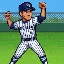
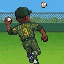
Franchise creator + green-and-gold portrait sheet
Name your own club (city + team name with dice rerolls), pick a club
edge, get a randomly drafted roster; the 7 rivals now generate unique
city+nickname identities from minor-league flavored pools. New user-made
portrait sheet sliced in (one masked catcher, five arms, ten fielders).
Existing saves untouched (nickname falls back to city name).

Claude-Session: https://claude.ai/code/session_013bLcArUegW965DkACQis4U

diff --git a/src/ui/CitySelect.jsx b/src/ui/CitySelect.jsx
@@ -1,36 +1,98 @@
-// ── City selection screen (shown before the club is founded) ──
+// ── The Franchise Creator: name your club, pick your edge, get a random roster ──
 
 import { useState } from "react";
-import { C, CITIES } from "../game/constants.js";
-import { panel, btn, globalCss, MONO, SLAB } from "./styles.js";
+import { C, EDGES, CITY_POOL, NICKNAME_POOL } from "../game/constants.js";
+import { btn, globalCss, MONO, PIXEL, SLAB } from "./styles.js";
+import Panel from "./Panel.jsx";
+import { DiceIcon } from "./Icons.jsx";
+
+const roll = (pool) => pool[(Math.random() * pool.length) | 0];
+
+const inputStyle = {
+  flex: 1, minWidth: 0, background: "#0A1810", color: C.cream, border: `2px solid ${C.greenLine}`,
+  borderRadius: 6, fontFamily: MONO, fontSize: 15, fontWeight: 600, padding: "10px 10px",
+  letterSpacing: 1, boxSizing: "border-box",
+};
+const diceBtn = {
+  width: 46, display: "flex", alignItems: "center", justifyContent: "center",
+  background: "transparent", border: `2px solid ${C.greenLine}`, borderRadius: 6, cursor: "pointer",
+};
 
 export default function CitySelect({ onPick, onRestore }) {
+  const [tCity, setTCity] = useState(() => roll(CITY_POOL));
+  const [nick, setNick] = useState(() => roll(NICKNAME_POOL));
+  const [edge, setEdge] = useState(null);
   const [open, setOpen] = useState(false);
   const [pasted, setPasted] = useState("");
   const [err, setErr] = useState(null);
+
+  const ready = tCity.trim().length > 0 && nick.trim().length > 0 && edge != null;
+  const start = () => {
+    if (!ready) return;
+    const e = EDGES[edge];
+    onPick({ name: tCity.trim(), nickname: nick.trim(), bonus: e.bonus, label: `${e.title}: ${e.label}` });
+  };
+
   return (
-    <div style={{ minHeight: "100dvh", background: C.green, color: C.cream, fontFamily: MONO, padding: "calc(12px + env(safe-area-inset-top)) calc(12px + env(safe-area-inset-right)) calc(12px + env(safe-area-inset-bottom)) calc(12px + env(safe-area-inset-left))", boxSizing: "border-box" }}>
+    <div style={{ minHeight: "100dvh", background: C.green, color: C.cream, fontFamily: MONO, padding: "calc(12px + env(safe-area-inset-top)) calc(12px + env(safe-area-inset-right)) calc(24px + env(safe-area-inset-bottom)) calc(12px + env(safe-area-inset-left))", boxSizing: "border-box" }}>
       <style>{globalCss}</style>
-      <div style={{ maxWidth: 720, margin: "40px auto", textAlign: "center" }}>
-        <h1 style={{ fontFamily: SLAB, fontSize: 30, letterSpacing: 1 }}>
+      <div style={{ maxWidth: 460, margin: "28px auto 0" }}>
+        <h1 style={{ fontFamily: SLAB, fontSize: 30, letterSpacing: 1, textAlign: "center", margin: "0 0 4px" }}>
           PENNANT<span style={{ color: C.amber }}> CHASE</span>
         </h1>
-        <p style={{ color: C.creamDim, fontSize: 13 }}>
-          Found a club in the Bigs. Eight teams, 154 games a season, one Pennant Cup —
-          and the seasons never stop. Your rivals get better every winter. Will you?
-          Pick your city — each comes with a permanent edge.
-        </p>
-        <div style={{ display: "flex", flexWrap: "wrap", gap: 12, justifyContent: "center", marginTop: 20 }}>
-          {CITIES.map((c) => (
-            <button key={c.name} onClick={() => onPick(c)}
-              style={{ ...panel, borderColor: C.amber, padding: 16, width: 210, cursor: "pointer", color: C.cream, fontFamily: MONO, textAlign: "left" }}>
-              <div style={{ fontFamily: SLAB, fontSize: 16, color: C.amber, marginBottom: 6 }}>{c.name}</div>
-              <div style={{ fontSize: 11, color: C.creamDim, lineHeight: 1.5 }}>{c.label}</div>
-            </button>
-          ))}
+        <div style={{ textAlign: "center", fontFamily: PIXEL, fontSize: 9, color: C.creamDim, letterSpacing: 1 }}>
+          FOUND YOUR FRANCHISE
         </div>
 
-        <div style={{ marginTop: 28 }}>
+        <Panel title="YOUR CLUB">
+          <div style={{ fontSize: 9, color: C.creamDim, letterSpacing: 2, marginBottom: 4 }}>CITY</div>
+          <div style={{ display: "flex", gap: 8, marginBottom: 12 }}>
+            <input value={tCity} maxLength={16} onChange={(e) => setTCity(e.target.value)} style={inputStyle} />
+            <button style={diceBtn} aria-label="random city" onClick={() => setTCity(roll(CITY_POOL))}><DiceIcon size={17} /></button>
+          </div>
+          <div style={{ fontSize: 9, color: C.creamDim, letterSpacing: 2, marginBottom: 4 }}>TEAM NAME</div>
+          <div style={{ display: "flex", gap: 8, marginBottom: 12 }}>
+            <input value={nick} maxLength={16} onChange={(e) => setNick(e.target.value)} style={inputStyle} />
+            <button style={diceBtn} aria-label="random team name" onClick={() => setNick(roll(NICKNAME_POOL))}><DiceIcon size={17} /></button>
+          </div>
+          <div style={{ textAlign: "center", fontFamily: PIXEL, fontSize: 11, color: C.amber, letterSpacing: 1, lineHeight: 1.6, minHeight: 20 }}>
+            {(tCity.trim() + " " + nick.trim()).toUpperCase()}
+          </div>
+        </Panel>
+
+        <Panel title="YOUR EDGE">
+          <div style={{ display: "flex", flexWrap: "wrap", gap: 8 }}>
+            {EDGES.map((e, i) => {
+              const on = edge === i;
+              return (
+                <button key={e.bonus} onClick={() => setEdge(i)}
+                  style={{
+                    flex: "1 1 46%", minWidth: 150, textAlign: "left", padding: "9px 10px", cursor: "pointer",
+                    background: on ? "#3A2E10" : "transparent", border: `2px solid ${on ? C.amber : C.greenLine}`,
+                    borderRadius: 6, color: on ? C.amber : C.cream, fontFamily: MONO,
+                  }}>
+                  <div style={{ fontFamily: PIXEL, fontSize: 8, letterSpacing: 1, marginBottom: 4 }}>{e.title}</div>
+                  <div style={{ fontSize: 10, color: C.creamDim }}>{e.label}</div>
+                </button>
+              );
+            })}
+          </div>
+        </Panel>
+
+        <div style={{ fontSize: 10, color: C.creamDim, textAlign: "center", margin: "14px 0 0" }}>
+          Your roster is drafted for you — random names, random talent. Seven rival clubs await.
+        </div>
+
+        <button onClick={start}
+          style={{
+            width: "100%", marginTop: 12, fontFamily: PIXEL, fontSize: 11, padding: "14px 0", letterSpacing: 1,
+            background: ready ? "#3A2E10" : "transparent", border: `3px solid ${ready ? C.amber : C.greenLine}`,
+            borderRadius: 8, color: ready ? C.amber : C.creamDim, cursor: ready ? "pointer" : "default",
+          }}>
+          START FRANCHISE
+        </button>
+
+        <div style={{ marginTop: 22, textAlign: "center" }}>
           <button onClick={() => { setOpen((o) => !o); setErr(null); }}
             style={{ background: "transparent", border: "none", color: C.creamDim, fontFamily: MONO, fontSize: 11, textDecoration: "underline", cursor: "pointer" }}>
             Have a backup code from another device?

diff --git a/src/App.jsx b/src/App.jsx
@@ -156,6 +156,7 @@ export default function App() {
   S.current = { city, money, fans, roster, merch, tv, seasonStats, shopItems, draftClass, form, year, phase, rivals, schedule, rivalDays, gameIndex, standings, playoffs, history, trophies, speed, sound, seenTips };
 
   const cityBonus = (k) => (city?.bonus === k);
+  const tn = (c) => (c?.nickname ?? c?.name ?? ""); // team display name
 
   const pushLog = useCallback((text, kind = "play", side = null, team = null) => {
     setLog((l) => [{ id: idRef.current++, text, kind, side, team }, ...l].slice(0, 40));
@@ -201,11 +202,11 @@ export default function App() {
   // ── Founding ──
   const foundClub = (c) => {
     const r = genRoster(LEAGUE.statBase);
-    const rv = makeRivals();
+    const rv = makeRivals(LEAGUE.statBase, { tCity: c.name, name: c.nickname });
     const sch = makeSchedule();
     setCity(c); setRoster(r); setRivals(rv);
     setSchedule(sch.schedule); setRivalDays(sch.rivalDays);
-    pushLog(`The ${c.name} franchise joins ${LEAGUE.name}. ${c.label}.`, "win");
+    pushLog(`The ${c.name} ${c.nickname} join ${LEAGUE.name}. ${c.label}.`, "win");
     pushLog(`Eight clubs. ${LEAGUE.seasonGames} games. Top four make the playoffs. The Pennant Cup waits.`, "sys");
     showTip("welcome");
   };
@@ -262,9 +263,9 @@ export default function App() {
     gameRef.current = newGame(opp, home, oppIdx);
     ctxRef.current = {
       batters: s.roster.batters, sp: s.roster.sp, rp: s.roster.rp, opp,
-      fence: FENCE, statBase: LEAGUE.statBase, innings: LEAGUE.innings, cityName: s.city.name,
+      fence: FENCE, statBase: LEAGUE.statBase, innings: LEAGUE.innings, cityName: tn(s.city),
     };
-    pushLog(`— ${label} — ${home ? `${opp.name} at ${s.city.name}` : `${s.city.name} at ${opp.name}`}.`, "sys");
+    pushLog(`— ${label} — ${home ? `${opp.name} at ${tn(s.city)}` : `${tn(s.city)} at ${opp.name}`}.`, "sys");
   };
 
   // ── Settle a finished game into money/fans/standings/series ──
@@ -277,7 +278,7 @@ export default function App() {
     for (let i = s.form.length - 1; i >= 0 && s.form[i] === "W"; i--) streak++;
     const res = settleGame(g, {
       fans: s.fans, gateBonus: cityBonus("gate"), floorBonus: cityBonus("floor"),
-      fansBonus: cityBonus("fans"), cityName: s.city.name, playoff: playoffLabel,
+      fansBonus: cityBonus("fans"), cityName: tn(s.city), playoff: playoffLabel,
       formWins: s.form.filter((f) => f === "W").length, streak,
     });
     setMoney((m) => m + res.moneyDelta);
@@ -343,7 +344,7 @@ export default function App() {
       return;
     }
     if (p.wins.us >= need && p.round === "final") {
-      pushLog(`— PENNANT CUP CHAMPIONS — ${s.city.name} take the final ${p.wins.us}-${p.wins.them}. $${fmt(ECON.cupPay)} and the parade lasts three days.`, "win");
+      pushLog(`— PENNANT CUP CHAMPIONS — ${tn(s.city)} take the final ${p.wins.us}-${p.wins.them}. $${fmt(ECON.cupPay)} and the parade lasts three days.`, "win");
       play.fanfare();
       return offseason(0, true);
     }
@@ -362,8 +363,8 @@ export default function App() {
     const ratings = ratingsNow();
     const order = seedOrder(s.standings, ratings);
     const mySeed = order.indexOf(0);
-    const name = (i) => (i === 0 ? s.city.name : s.rivals[i - 1].name);
-    pushLog(`— REGULAR SEASON COMPLETE — ${s.city.name} finish ${s.standings[0].w}-${s.standings[0].l}, ${["1st", "2nd", "3rd"][mySeed] || `${mySeed + 1}th`}.`, mySeed < LEAGUE.playoffTeams ? "win" : "out");
+    const name = (i) => (i === 0 ? tn(s.city) : s.rivals[i - 1].name);
+    pushLog(`— REGULAR SEASON COMPLETE — ${tn(s.city)} finish ${s.standings[0].w}-${s.standings[0].l}, ${["1st", "2nd", "3rd"][mySeed] || `${mySeed + 1}th`}.`, mySeed < LEAGUE.playoffTeams ? "win" : "out");
 
     if (mySeed < LEAGUE.playoffTeams) {
       const oppIdx = order[[3, 2, 1, 0][mySeed]];
@@ -416,7 +417,7 @@ export default function App() {
     const mySeed = order.indexOf(0);
     const off = runOffseason({
       year: s.year, rivals: s.rivals, standings: s.standings, ratings,
-      championIdx, championName: championIdx === 0 ? s.city.name : s.rivals[championIdx - 1].name,
+      championIdx, championName: championIdx === 0 ? tn(s.city) : s.rivals[championIdx - 1].name,
       playerSeed: mySeed, playerCup,
       record: { w: s.standings[0].w, l: s.standings[0].l },
       fans: s.fans, history: s.history, trophies: s.trophies,

diff --git a/src/ui/BallparkTab.jsx b/src/ui/BallparkTab.jsx
@@ -54,12 +54,13 @@ export default function BallparkTab({ g, city, year, phase, playoffs, gameIndex,
 
   // Line score rows: away team always on top. [name, R, H, E, atBat, isUs]
   const hitsOf = (sideKey) => (box ? Object.values(box[sideKey]).reduce((n, l) => n + l.h, 0) : "–");
-  const usRow = g ? [city.name, g.us, hitsOf("us"), box.errUs ?? 0, g.half === (g.home ? "bottom" : "top") && !g.over, true] : [city.name, "–", "–", "–", false, true];
+  const teamName = city.nickname ?? city.name;
+  const usRow = g ? [teamName, g.us, hitsOf("us"), box.errUs ?? 0, g.half === (g.home ? "bottom" : "top") && !g.over, true] : [teamName, "–", "–", "–", false, true];
   const oppRow = g ? [g.opp.name, g.them, hitsOf("them"), box.errThem ?? 0, g.half === (g.home ? "top" : "bottom") && !g.over, false] : ["VISITORS", "–", "–", "–", false, false];
   const teamRows = g && !g.home ? [usRow, oppRow] : [oppRow, usRow];
 
   // Standings, sorted
-  const names = [city.name, ...(rivals || []).map((r) => r.name)];
+  const names = [teamName, ...(rivals || []).map((r) => r.name)];
   const table = standings
     .map((t, i) => ({ i, name: names[i] || "—", w: t.w, l: t.l, pct: t.w + t.l ? t.w / (t.w + t.l) : 0 }))
     .sort((a, b) => b.w - a.w || a.l - b.l);
@@ -144,7 +145,7 @@ export default function BallparkTab({ g, city, year, phase, playoffs, gameIndex,
             <Panel title="GAME STATS" titleRight={g.over ? "FINAL" : undefined}>
               <div style={{ display: "flex", fontSize: 11, marginBottom: 10, letterSpacing: 1 }}>
                 <span style={{ color: C.creamDim }}>{abbrev(g.opp.name)} {g.opp.name}</span>
-                <span style={{ marginLeft: "auto", color: C.amber }}>{city.name} {abbrev(city.name)}</span>
+                <span style={{ marginLeft: "auto", color: C.amber }}>{teamName} {abbrev(teamName)}</span>
               </div>
               <CompareRow label="HITS" a={total("them", "h")} b={total("us", "h")} />
               <CompareRow label="HOME RUNS" a={total("them", "hr")} b={total("us", "hr")} />
@@ -153,7 +154,7 @@ export default function BallparkTab({ g, city, year, phase, playoffs, gameIndex,
               <CompareRow label="WALKS" a={total("them", "bb")} b={total("us", "bb")} />
               <CompareRow label="LEFT ON BASE" a={g.box.lobThem} b={g.box.lobUs} />
             </Panel>
-            <StatTable style={{ marginTop: 10 }} title={`${city.name.toUpperCase()} HITTING`}
+            <StatTable style={{ marginTop: 10 }} title={`${teamName.toUpperCase()} HITTING`}
               cols={["AB", "R", "H", "HR", "RBI", "BB", "K"]} rows={gameRows(roster.batters, "us")} onRow={onOpenCard} />
             <StatTable style={{ marginTop: 10 }} title={`${g.opp.name.toUpperCase()} HITTING`}
               cols={["AB", "R", "H", "HR", "RBI", "BB", "K"]} rows={gameRows(g.opp.batters, "them")} onRow={onOpenCard} />
@@ -192,7 +193,7 @@ export default function BallparkTab({ g, city, year, phase, playoffs, gameIndex,
         {g && !g.over && (
           <Panel title="SCOUT">
             <div style={{ fontSize: 12, lineHeight: 1.7 }}>
-              {g.opp.name}<br />
+              {g.opp.tCity ? `${g.opp.tCity} ` : ""}{g.opp.name}<br />
               Their ace: {g.opp.sp.name} (Stuff {g.opp.sp.stuff}, Control {g.opp.sp.control})<br />
               <span style={{ color: C.creamDim }}>Rivals retool every winter. Keep up.</span>
             </div>

diff --git a/src/game/constants.js b/src/game/constants.js
@@ -38,13 +38,31 @@ export const LAST = [
   "Webb", "Whitaker", "Wilks", "Yamada", "Zamora",
 ];
 
-export const CITIES = [
-  { name: "Sacramento", bonus: "fans", label: "Hungry market: +25% fan growth" },
-  { name: "Nashville", bonus: "merch", label: "Merch city: merchandise pays +30%" },
-  { name: "Portland", bonus: "train", label: "Player development hub: training costs -15%" },
-  { name: "San Antonio", bonus: "gate", label: "Big gates: +25% game payouts" },
-  { name: "Buffalo", bonus: "floor", label: "Loyal diehards: money floor doubled on losses" },
-  { name: "Montreal", bonus: "fans", label: "Baseball-starved: +25% fan growth" },
+// Club edges — pick one at founding (the old per-city bonuses, city-neutral)
+export const EDGES = [
+  { bonus: "fans", title: "HUNGRY MARKET", label: "+25% fan growth" },
+  { bonus: "merch", title: "MERCH TOWN", label: "merchandise pays +30%" },
+  { bonus: "train", title: "DEV ACADEMY", label: "training costs -15%" },
+  { bonus: "gate", title: "BIG GATES", label: "+25% game payouts" },
+  { bonus: "floor", title: "DIEHARDS", label: "loss payouts doubled" },
+];
+
+// Team identity pools: minor-league flavored towns and nicknames
+export const CITY_POOL = [
+  "Toledo", "Fresno", "Duluth", "Butte", "Amarillo", "Pawtucket", "Chattanooga", "Spokane",
+  "Port Vale", "Cedar Falls", "Bison Ridge", "Sable Creek", "Harbor City", "Yucca Flats",
+  "Iron Bend", "Dry Gulch", "Millhaven", "Oak Hollow", "Red Mesa", "Saltwater",
+  "Gravel Point", "Copper Junction", "Twin Forks", "Palmetto", "Frostburg", "El Dorado",
+  "Kingsport", "Blue Ash", "Tarrytown", "Mudflat", "Sunbury", "Cannon Falls",
+  "Whistler's Gap", "Bakersfield", "Owl Creek", "Rock Bottom", "Grover's Mill", "Lantern Hill",
+];
+export const NICKNAME_POOL = [
+  "River Cats", "Mudhens", "Growlers", "Steel", "Bisons", "Copperheads", "Night Owls",
+  "Sandpipers", "Mudcats", "Ironbirds", "Thunderclaps", "Dusters", "Wolf Spiders", "Sod Busters",
+  "Haymakers", "Zephyrs", "Jackalopes", "Stevedores", "Linemen", "Moonshots",
+  "Prairie Dogs", "Green Sox", "Wranglers", "Coal Skinks", "Barnstormers", "Dirigibles",
+  "Leadoffs", "Spitfires", "Turkeys", "Cannoneers", "Swamp Foxes", "Boilermen",
+  "Knuckleballs", "Sluggos", "Rainmakers", "Longhorns", "Icehouse Cats", "Ragtops",
 ];
 
 export const TRAITS = [
@@ -69,9 +87,6 @@ export const LEAGUE = {
   payWin: 60,    // legacy anchor: gear prices key off this
   fansPerWin: 8, // + 2 per HR, streaks multiply it
 };
-
-// The seven clubs you will battle forever
-export const RIVAL_NAMES = ["River Cats", "Mudhens", "Growlers", "Steel", "Bisons", "Copperheads", "Night Owls"];
 
 export const ECON = {
   startMoney: 200,

diff --git a/src/game/season.js b/src/game/season.js
@@ -1,20 +1,27 @@
 // ── Season machinery: rivals, schedule, standings, quick-sim, playoffs, offseason ──
 // Team index convention everywhere: 0 = the player's club, 1..7 = rivals.
 
-import { LEAGUE, RIVAL_NAMES, TRAITS, CREEP, ECON } from "./constants.js";
-import { genRivalTeam, creepRival } from "./generators.js";
+import { LEAGUE, TRAITS, CREEP, ECON } from "./constants.js";
+import { genRivalTeam, creepRival, genTeamIdentity } from "./generators.js";
 import { ovr } from "./gear.js";
 
 // Logistic win probability constants (calibrated against the real engine —
 // on the 0-100 scale one OVR point is worth K=0.325 of log-odds)
 export const QS = { K: 0.325, H: 0.03 };
 
-export const makeRivals = (base = LEAGUE.statBase) => {
+export const makeRivals = (base = LEAGUE.statBase, playerIdentity = null) => {
   const traitIds = [...TRAITS.map((t) => t.id)];
   // 7 rivals, 6 traits: shuffle and let one trait appear twice
   const pool = [...traitIds].sort(() => Math.random() - 0.5);
   pool.push(traitIds[(Math.random() * traitIds.length) | 0]);
-  return RIVAL_NAMES.map((name, i) => genRivalTeam(name, pool[i], base));
+  const usedCities = new Set(playerIdentity ? [playerIdentity.tCity] : []);
+  const usedNames = new Set(playerIdentity ? [playerIdentity.name] : []);
+  return Array.from({ length: 7 }, (_, i) => {
+    const id = genTeamIdentity(usedCities, usedNames);
+    const team = genRivalTeam(id.name, pool[i], base);
+    team.tCity = id.tCity;
+    return team;
+  });
 };
 
 // Per rival: 6 series, 22 games, 11 home / 11 away

diff --git a/src/game/generators.js b/src/game/generators.js
@@ -1,6 +1,6 @@
 // ── Player, roster, rival-team, and draft-class generation ──
 
-import { FIRST, LAST, POSITIONS, TRAITS, BAT_STATS, PIT_STATS, PLAYER_TRAITS, LEAGUE, DRAFT, CREEP } from "./constants.js";
+import { FIRST, LAST, POSITIONS, TRAITS, BAT_STATS, PIT_STATS, PLAYER_TRAITS, LEAGUE, DRAFT, CREEP, CITY_POOL, NICKNAME_POOL } from "./constants.js";
 import { jitter } from "./utils.js";
 
 let uid = 1;
@@ -22,6 +22,17 @@ const rname = () => {
   return FIRST[(Math.random() * FIRST.length) | 0] + " " + LAST[(Math.random() * LAST.length) | 0];
 };
 export const freshName = () => rname();
+
+// Team identities: unique town + nickname combos for a league
+export const genTeamIdentity = (usedCities, usedNames) => {
+  let tCity = CITY_POOL[(Math.random() * CITY_POOL.length) | 0];
+  for (let i = 0; i < 30 && usedCities.has(tCity); i++) tCity = CITY_POOL[(Math.random() * CITY_POOL.length) | 0];
+  let name = NICKNAME_POOL[(Math.random() * NICKNAME_POOL.length) | 0];
+  for (let i = 0; i < 30 && usedNames.has(name); i++) name = NICKNAME_POOL[(Math.random() * NICKNAME_POOL.length) | 0];
+  usedCities.add(tCity);
+  usedNames.add(name);
+  return { tCity, name };
+};
 
 export const pickTrait = (role) => {
   const pool = PLAYER_TRAITS.filter((t) => t.role === role);

diff --git a/src/ui/Scoreboard.jsx b/src/ui/Scoreboard.jsx
@@ -36,7 +36,7 @@ export default function Scoreboard({ city, year, record, money, fans, talent, tr
       {/* Marquee */}
       <div style={{ display: "flex", alignItems: "center", gap: 10, marginBottom: 10 }}>
         <h1 style={{ fontFamily: SLAB, fontSize: "clamp(14px, 4.3vw, 20px)", margin: 0, flex: 1, minWidth: 0, overflow: "hidden", textOverflow: "ellipsis", whiteSpace: "nowrap" }}>
-          {city.name.toUpperCase()}<span style={{ color: C.amber }}> BASEBALL</span>
+          {city.name.toUpperCase()}<span style={{ color: C.amber }}> {(city.nickname ?? "BASEBALL").toUpperCase()}</span>
         </h1>
         <button onClick={onHelp} style={{ display: "flex", alignItems: "center", gap: 6, background: "transparent", border: `1px solid ${C.greenLine}`, borderRadius: 4, color: C.cream, fontFamily: MONO, fontSize: 11, padding: "6px 10px", cursor: "pointer", flexShrink: 0 }}>
           <RulebookIcon /> RULEBOOK

diff --git a/src/ui/Icons.jsx b/src/ui/Icons.jsx
@@ -92,6 +92,17 @@ export const OfficeNavIcon = ({ size = 20, color = C.cream }) => (
   </svg>
 );
 
+export const DiceIcon = ({ size = 14, color = C.amber }) => (
+  <svg width={size} height={size} viewBox="0 0 24 24" fill="none" aria-hidden="true">
+    <rect x="4" y="4" width="16" height="16" rx="3" stroke={color} strokeWidth="1.8" />
+    <circle cx="9" cy="9" r="1.4" fill={color} />
+    <circle cx="15" cy="9" r="1.4" fill={color} />
+    <circle cx="9" cy="15" r="1.4" fill={color} />
+    <circle cx="15" cy="15" r="1.4" fill={color} />
+    <circle cx="12" cy="12" r="1.4" fill={color} />
+  </svg>
+);
+
 export const SoundOnIcon = ({ size = 12, color = C.cream }) => (
   <svg width={size} height={size} viewBox="0 0 24 24" fill="none" aria-hidden="true">
     <path d="M4 9v6h4l5 4V5L8 9z" fill={color} />

diff --git a/src/ui/portrait.js b/src/ui/portrait.js
@@ -1,8 +1,8 @@
 // ── Player portraits: 16 pixel-art scenes assigned by position, stable per player ──
 
-const PITCHER_TILES = [1, 5, 9, 13, 15]; // windups and deliveries
-const CATCHER_TILES = [3, 7, 11];        // masked and crouched
-const BATTER_TILES = [2, 4, 6, 8, 10, 12, 14, 16]; // swings, dives, slides, scoops
+const PITCHER_TILES = [1, 6, 9, 15, 16];  // windups and deliveries
+const CATCHER_TILES = [7];                // the masked catcher
+const BATTER_TILES = [2, 3, 4, 5, 8, 10, 11, 12, 13, 14]; // swings, grabs, slides
 
 export const portraitUrl = (p) => {
   const set = p.pos === "C" ? CATCHER_TILES : p.role !== "bat" ? PITCHER_TILES : BATTER_TILES;
